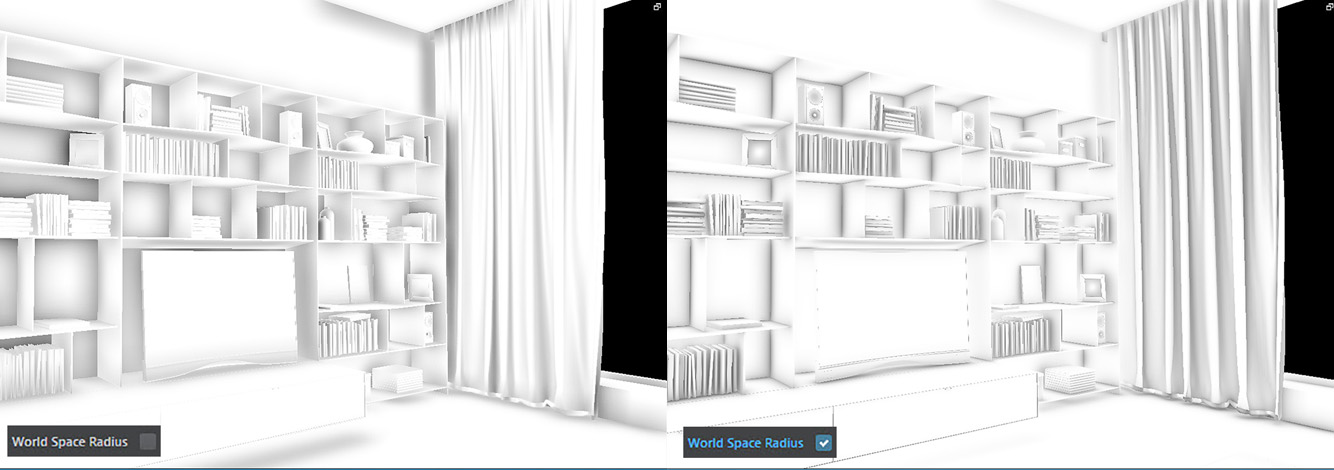
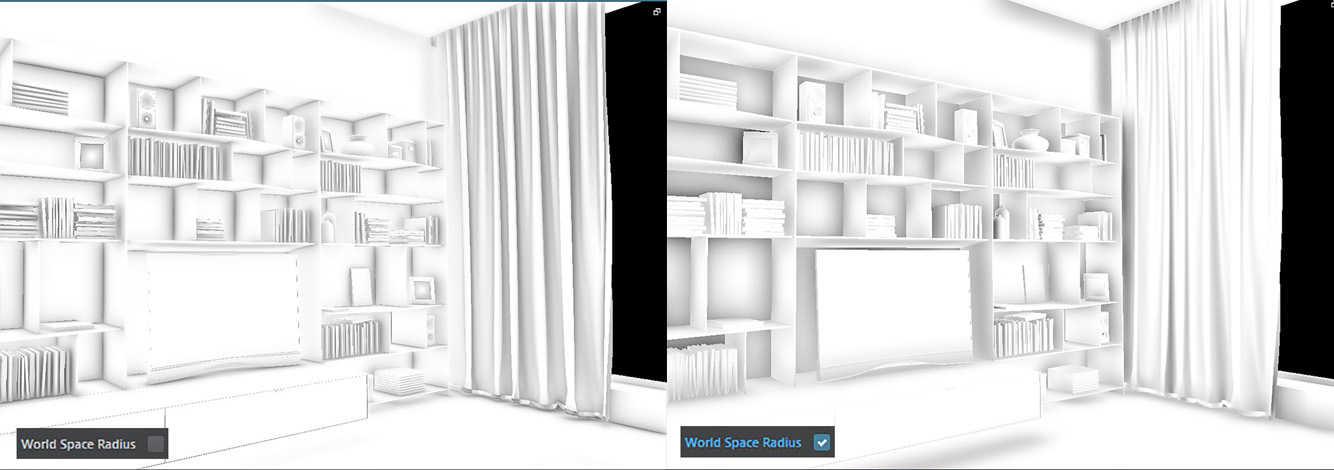
Updated shading properties and added vr mirror mode support docs.

diff --git a/source/stingray_help/release_notes/readme_1.6.md b/source/stingray_help/release_notes/readme_1.6.md
@@ -41,7 +41,17 @@ The revamped Stingray and the Beast lightmap bakers now reflect more meaningful 
 
 ### Light baking improvements
 
-Improvements to light baking and post-processing effects (SSAO, SSR) increase the lighting quality of architectural visualization scenes.  If you bake lighting, ambient occlusion is now automatically baked and stored in the alpha channel of your lightmaps. New shading environment properties help you control how to apply baked AO and SSAO to your final scene.
+The following Improvements to light baking and post-processing effects (SSAO, SSR) increase the lighting quality and performance of architectural visualization scenes:
+
+- Ambient occlusion is now automatically baked and stored in the alpha channel of your lightmaps.
+- New shading environment properties help you control how to apply baked AO and SSAO to your final scene. You can also run SSAO in screen space or world space. See ~{ Shading Environment Properties }~.
+- A new screen space reflection algorithm reflects GGX and matches up with pre-convoluted IBL reflection probes.
+- Normalization of lightmap resolution is now based on the UV space area.
+- UV seam fixup now automatically runs as a post-processing effect when you bake lightmaps.
+
+### VR mono and streo mirror mode support
+
+When you mirror your viewport to a VR app, you can now control the mirror window display. You can set the vr_mirror_mode to mono or stereo in your project’s settings.ini file. See ~{ Set VR mirror mode }~.
 
 ### Conditional transitions in Animation Controller
 

diff --git a/source/stingray_help/playtesting/set_vr_mirror.md b/source/stingray_help/playtesting/set_vr_mirror.md
@@ -1,0 +1,15 @@
+# Set VR mirror mode
+
+[![NEW](../images/new.png "What else is new in v1.6?")](../release_notes/readme_1.6.html)
+
+After mirroring your viewport to a VR app, you can adjust the mirror window display. See ~{ Connecting to a remote device }~ for more information.
+
+  >**Note:** The vr_ mirror_mode must be set for each new project.
+
+**To set the VR mirror window mode**
+
+1. Open your project's **setting.ini** file in a text editor of your choice, find the render_settings section and set one of the following:
+  - vr_ mirror_mode = "mono"
+    Mono mode (default): One image displays in the mirror window.
+  - vr_ mirror_mode = stereo
+    Stereo mode: Two images display in the mirror window, simulating two eye fields.
